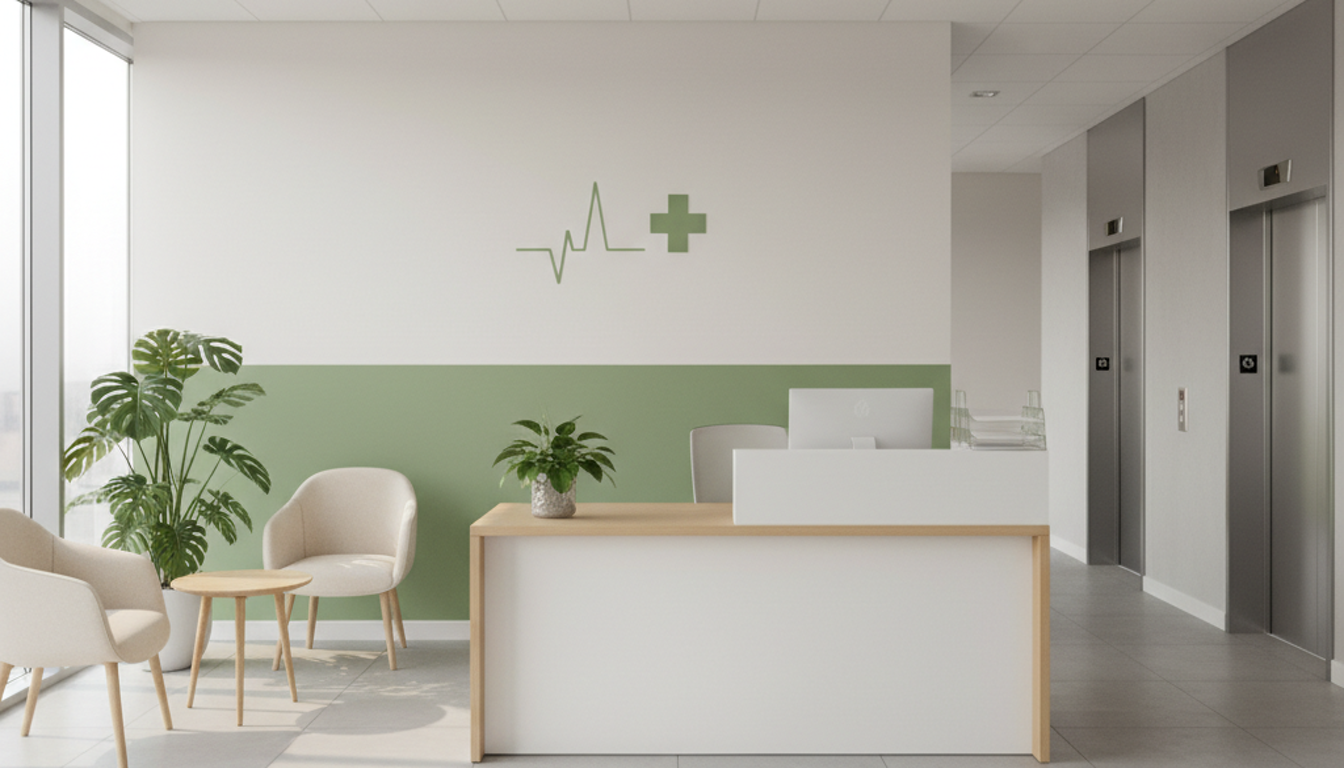
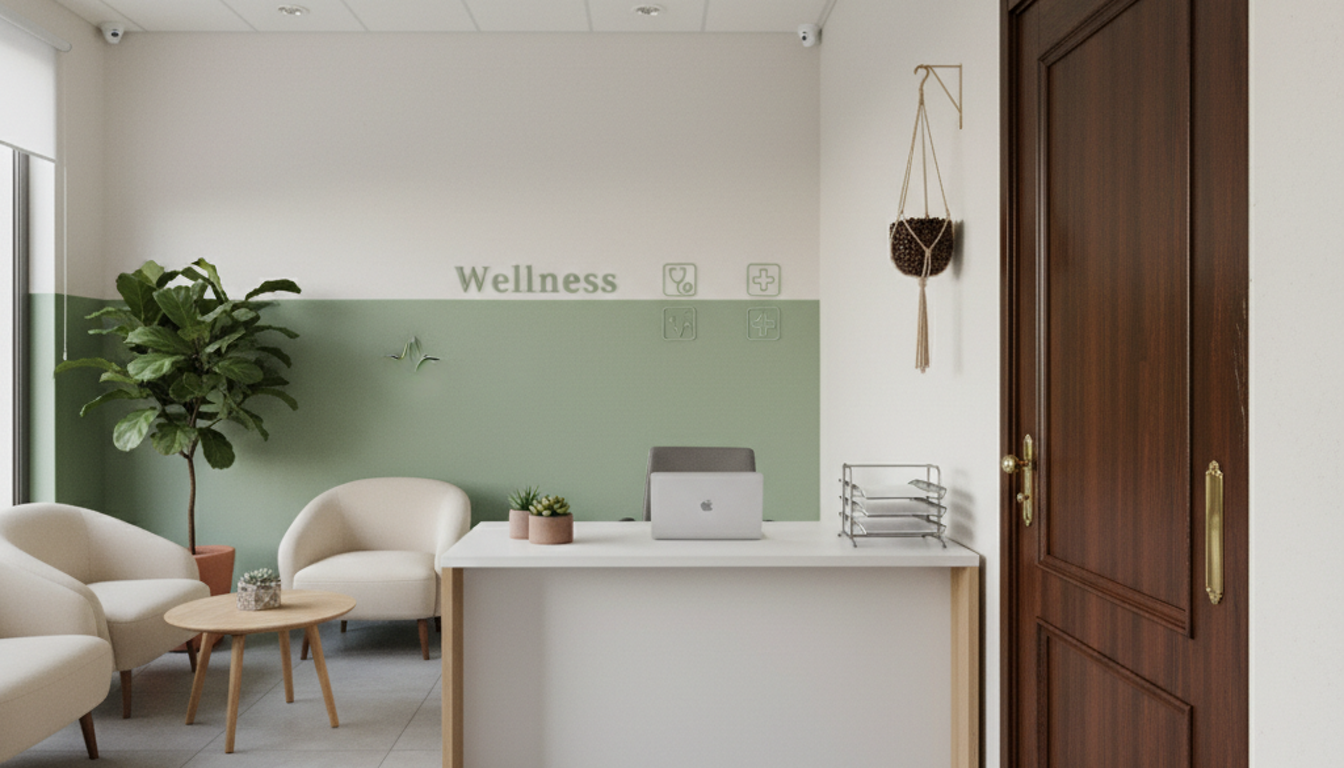
健康管理室に推進カフェへの「隠し扉」を実装 (Gemini 再生成)
server/scripts/gen_wellness_secret_door.js で部屋画像を再生成:
- 右側にダークウォルナットの木製単扉
- 「☕ Staff Lounge」真鍮プレート看板 (扉上)
- 銅色アンティークノブ + マクラメ植木鉢で隠れ家ヒント
- 既存の健康管理室の医療系トーンとは対比的な木目暖色

クライアント onPointerDown に hit-test 追加:
- world座標 x:1075-1290, y:230-700 (右側の扉領域) をクリック
- 推進メンバー → switchFloor('promoter_club')
- 一般 → 「🔒 鍵がかかっている (推進メンバー専用)」トースト

DB: floors.bg_image を ?v=2 にバンプしてキャッシュバスター

diff --git a/server/scripts/gen_wellness_secret_door.js b/server/scripts/gen_wellness_secret_door.js
@@ -1,0 +1,78 @@
+// 健康管理室の一人称視点画像を「推進カフェへの隠し扉」付きで再生成
+// usage: node server/scripts/gen_wellness_secret_door.js
+require('dotenv').config({ path: '/opt/cohub/.env' });
+const fs = require('fs');
+const { execSync } = require('child_process');
+
+const apiKey = process.env.GEMINI_API_KEY;
+if (!apiKey) { console.error('GEMINI_API_KEY未設定'); process.exit(1); }
+
+const ROOM_OUT = '/opt/cohub/public/assets/floor_wellness_room.png';
+
+const ROOM_PROMPT = `現代的な企業内の**健康管理室・産業保健相談室**の**一人称視点**画像を生成してください。
+**重要な追加要素**: 部屋の右奥に「推進カフェへの隠し扉」を必ず配置すること。
+
+【視点・構図】
+- 部屋に入って机に向かう人間の目線(身長170cm)
+- **必ず 16:9 横長アスペクト比** (1344×768 px)
+- 中央〜やや左寄りに**白い相談デスク**(腰高、明るい木目縁)、その奥にヘルスアドバイザーが立つスペース
+- デスクの背後の壁は**淡い緑(セージグリーン)とオフホワイト**のツートン
+- 壁にシンプルな**心電図/聴診器/緑十字のアイコン**または「Wellness」の控えめな文字
+- 左側に**待合エリア**(クリーム色のソファ1-2席+小さな丸テーブル+観葉植物)
+- 床はライトグレーの大判タイル、天井は白くダウンライトが点在
+
+【★ 隠し扉 (必ず描く、最重要要素)】
+- **画面の右側 (横方向 78%〜92%、縦方向 30%〜85%) に小さなドア**を配置
+- ドアのデザイン: **ダークウォルナットの木製単扉**、銅色アンティークノブ、扉の上部に黄銅プレート
+- 扉の上に小さな**「☕ Staff Lounge」の真鍮プレート看板**(英字のみ、文字は控えめでも可読、フォント Garamond 風)
+- 扉の脇に**コーヒー豆の入ったマクラメ植木鉢**を1つ置いて隠れ家ヒント
+- 扉の周囲は壁紙と微妙にトーンが違い「秘密の隠し扉」感を出す
+- 扉自体は半開きでも閉じてても良いが、**奥にカフェの暖色照明がチラっと漏れる**演出があると良い
+- ドア自体の大きさは画面全高の約 50-55% (人が通れるサイズ感)
+- 室内とドアの世界観の対比: 健康管理室=明るい医療系、ドアの奥=暖色木目カフェ
+
+【トーン・雰囲気】
+- 清潔感・安心感のあるクリニック風
+- 朝の柔らかい光が左の窓から差し込む
+- リアル写真調 (CG・イラスト風ではなく、実写風レンダリング)
+- 落ち着いたグリーン+ホワイト基調
+
+【重要・厳守】
+- アドバイザー本人の**顔・人物は描かない** (デスクは無人、ドアの前にも人物配置しない)
+- 文字・看板は「Wellness」と扉上の「Staff Lounge」のみ
+- デスクの上はスッキリ (PCモニター、観葉植物、書類トレー程度可)
+- 旧画像 (隠し扉なし) と置き換わるので、扉が一目で分かる位置・サイズで描くこと`;
+
+async function geminiImage(prompt, label) {
+  const url = 'https://generativelanguage.googleapis.com/v1beta/models/gemini-2.5-flash-image:generateContent?key=' + apiKey;
+  const body = {
+    contents: [{ parts: [{ text: prompt }] }],
+    generationConfig: { responseModalities: ['IMAGE', 'TEXT'], temperature: 0.9 },
+  };
+  console.log(`[${label}] Gemini に生成リクエスト送信中…`);
+  const resp = await fetch(url, { method: 'POST', headers: { 'Content-Type': 'application/json' }, body: JSON.stringify(body) });
+  if (!resp.ok) throw new Error('API ' + resp.status + ': ' + (await resp.text()).slice(0, 300));
+  const data = await resp.json();
+  const parts = data.candidates && data.candidates[0] && data.candidates[0].content && data.candidates[0].content.parts;
+  if (!parts) throw new Error('応答にcontent.partsなし');
+  for (const p of parts) {
+    const inline = p.inlineData || p.inline_data;
+    if (inline && inline.data) return Buffer.from(inline.data, 'base64');
+    if (p.text) console.log(`[${label} text]`, p.text.slice(0, 200));
+  }
+  throw new Error('画像が返ってきませんでした');
+}
+
+(async () => {
+  try {
+    if (fs.existsSync(ROOM_OUT)) fs.copyFileSync(ROOM_OUT, ROOM_OUT + '.bak.' + Date.now());
+    const tmpRoom = ROOM_OUT + '.raw';
+    fs.writeFileSync(tmpRoom, await geminiImage(ROOM_PROMPT, 'wellness_room_secret'));
+    execSync(`ffmpeg -y -i ${tmpRoom} -vf "crop=in_w:in_w*9/16:0:(in_h-in_w*9/16)/2,scale=1344:768" -update 1 -frames:v 1 ${ROOM_OUT}`, { stdio: 'inherit' });
+    fs.unlinkSync(tmpRoom);
+    console.log('✅ 健康管理室+隠し扉:', ROOM_OUT);
+  } catch (e) {
+    console.error('失敗:', e.message);
+    process.exit(2);
+  }
+})();

diff --git a/public/index.html b/public/index.html
@@ -2858,6 +2858,16 @@ function onPointerDown(e) {
   const world = screenToWorld(e.clientX - rect.left, e.clientY - rect.top);
   // 最優先: 事故対策室の番組表メニュー (スクリーン上のファイルタップ)
   try { if (handleAccidentScreenClick(world.x, world.y)) return; } catch (err) {}
+  // 健康管理室の隠し扉 (推進カフェへの入口) — 画面右側の木製ドア
+  if (currentFloor && currentFloor.code === 'wellness_room'
+      && world.x >= 1075 && world.x <= 1290 && world.y >= 230 && world.y <= 700) {
+    if (_isPromoter()) {
+      try { switchFloor('promoter_club'); } catch (err) {}
+    } else {
+      showToast('🔒 鍵がかかっている。 (推進メンバー専用)');
+    }
+    return;
+  }
   // 次優先: bot 頭上の「メニューを開く」ボタン → 入室時と同じ avatar-intro-card を開く
   const btn = hitTestBotMenuButton(world.x, world.y);
   if (btn) {
